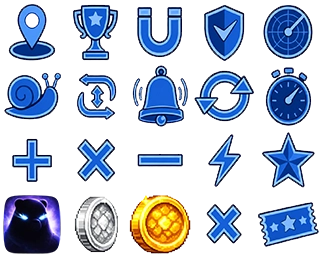
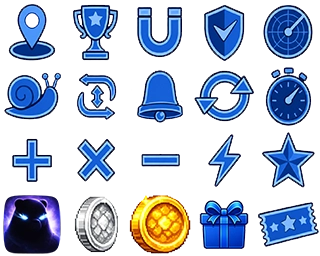
Merge pull request #1539 from bageus/prod
Prod

Pull request: Prod

diff --git a/js/features/onboarding/spotlight.js b/js/features/onboarding/spotlight.js
@@ -17,7 +17,11 @@ function ensureSpotlightRoot() {
   spotlightRoot.setAttribute('aria-hidden', 'true');
   spotlightRoot.style.cssText = [
     'position:fixed',
-    'inset:0',
+    'left:0',
+    'top:0',
+    'width:100vw',
+    'height:var(--tg-viewport-height, 100dvh)',
+    'min-height:-webkit-fill-available',
     'z-index:2147483647',
     'pointer-events:none',
     'font-family:inherit',
@@ -72,15 +76,11 @@ function ensureSpotlightStyles() {
 
 function getViewportRect() {
   const vv = typeof window !== 'undefined' ? window.visualViewport : null;
-  if (!vv) {
-    return { left: 0, top: 0, width: window.innerWidth, height: window.innerHeight };
-  }
-
   return {
-    left: vv.offsetLeft || 0,
-    top: vv.offsetTop || 0,
-    width: vv.width || window.innerWidth,
-    height: vv.height || window.innerHeight,
+    left: 0,
+    top: 0,
+    width: vv?.width || window.innerWidth,
+    height: vv?.height || window.innerHeight,
   };
 }
 
@@ -179,10 +179,22 @@ export async function showSpotlight({ target, text = '', content = null, showSki
   root.style.pointerEvents = 'auto';
 
   const container = document.createElement('div');
-  container.style.cssText = 'position:fixed;inset:0;pointer-events:none;';
+  container.style.cssText = [
+    'position:fixed',
+    'left:0',
+    'top:0',
+    'width:100vw',
+    'height:var(--tg-viewport-height, 100dvh)',
+    'min-height:-webkit-fill-available',
+    'pointer-events:none',
+  ].join(';');
 
   const dimmer = document.createElement('div');
-  dimmer.style.cssText = 'position:absolute;inset:0;pointer-events:none;';
+  dimmer.style.cssText = 'position:absolute;left:0;top:0;width:100%;height:100%;pointer-events:none;';
+
+  const dimBase = document.createElement('div');
+  dimBase.style.cssText = 'position:absolute;left:0;top:0;width:100%;height:100%;background:rgba(5,8,15,0.68);pointer-events:auto;';
+  dimmer.appendChild(dimBase);
 
   const dimTop = document.createElement('div');
   const dimRight = document.createElement('div');
@@ -272,16 +284,35 @@ export async function showSpotlight({ target, text = '', content = null, showSki
 
   const viewportPadding = 12;
   const highlightPadding = 8;
+  const clamp = (value, min, max) => Math.min(Math.max(value, min), max);
 
 
   const place = () => {
     const targetRect = targetElement.getBoundingClientRect();
     const viewport = getViewportRect();
 
-    const left = Math.max(viewport.left + viewportPadding, targetRect.left - highlightPadding);
-    const top = Math.max(viewport.top + viewportPadding, targetRect.top - highlightPadding);
-    const width = Math.max(24, targetRect.width + highlightPadding * 2);
-    const height = Math.max(24, targetRect.height + highlightPadding * 2);
+    if (window?.Telegram?.WebApp) {
+      console.info('[spotlight-debug]', {
+        rect: targetElement.getBoundingClientRect(),
+        innerWidth: window.innerWidth,
+        innerHeight: window.innerHeight,
+        visualViewport: window.visualViewport ? {
+          width: window.visualViewport.width,
+          height: window.visualViewport.height,
+          offsetTop: window.visualViewport.offsetTop,
+          offsetLeft: window.visualViewport.offsetLeft,
+          pageTop: window.visualViewport.pageTop,
+          pageLeft: window.visualViewport.pageLeft,
+        } : null,
+      });
+    }
+
+    const left = clamp(targetRect.left - highlightPadding, 8, viewport.width - 24);
+    const top = clamp(targetRect.top - highlightPadding, 8, viewport.height - 24);
+    const width = Math.max(24, Math.min(targetRect.width + highlightPadding * 2, viewport.width - left - 8));
+    const height = Math.max(24, Math.min(targetRect.height + highlightPadding * 2, viewport.height - top - 8));
+    const holeRight = left + width;
+    const holeBottom = top + height;
 
     hole.style.left = `${left}px`;
     hole.style.top = `${top}px`;
@@ -292,24 +323,24 @@ export async function showSpotlight({ target, text = '', content = null, showSki
     targetProxy.style.top = `${top}px`;
     targetProxy.style.width = `${width}px`;
     targetProxy.style.height = `${height}px`;
-    dimTop.style.left = `${viewport.left}px`;
-    dimTop.style.top = `${viewport.top}px`;
+    dimTop.style.left = '0px';
+    dimTop.style.top = '0px';
     dimTop.style.width = `${viewport.width}px`;
-    dimTop.style.height = `${Math.max(0, top - viewport.top)}px`;
+    dimTop.style.height = `${Math.max(0, top)}px`;
 
-    dimBottom.style.left = `${viewport.left}px`;
-    dimBottom.style.top = `${Math.min(viewport.top + viewport.height, top + height)}px`;
+    dimBottom.style.left = '0px';
+    dimBottom.style.top = `${Math.min(viewport.height, holeBottom)}px`;
     dimBottom.style.width = `${viewport.width}px`;
-    dimBottom.style.height = `${Math.max(0, viewport.top + viewport.height - (top + height))}px`;
+    dimBottom.style.height = `${Math.max(0, viewport.height - holeBottom)}px`;
 
-    dimLeft.style.left = `${viewport.left}px`;
+    dimLeft.style.left = '0px';
     dimLeft.style.top = `${top}px`;
-    dimLeft.style.width = `${Math.max(0, left - viewport.left)}px`;
+    dimLeft.style.width = `${Math.max(0, left)}px`;
     dimLeft.style.height = `${height}px`;
 
-    dimRight.style.left = `${Math.min(viewport.left + viewport.width, left + width)}px`;
+    dimRight.style.left = `${Math.min(viewport.width, holeRight)}px`;
     dimRight.style.top = `${top}px`;
-    dimRight.style.width = `${Math.max(0, viewport.left + viewport.width - (left + width))}px`;
+    dimRight.style.width = `${Math.max(0, viewport.width - holeRight)}px`;
     dimRight.style.height = `${height}px`;
 
     if (!hasText && !hasContent) return;
@@ -317,8 +348,8 @@ export async function showSpotlight({ target, text = '', content = null, showSki
     const bubbleRect = bubble.getBoundingClientRect();
     const belowTop = top + height + 10;
     const aboveTop = top - bubbleRect.height - 10;
-    const minBubbleLeft = viewport.left + viewportPadding;
-    const maxBubbleLeft = viewport.left + viewport.width - bubbleRect.width - viewportPadding;
+    const minBubbleLeft = viewportPadding;
+    const maxBubbleLeft = viewport.width - bubbleRect.width - viewportPadding;
     const centeredBubbleLeft = left + (width - bubbleRect.width) / 2;
 
     let bubbleLeft = centeredBubbleLeft;
@@ -327,8 +358,8 @@ export async function showSpotlight({ target, text = '', content = null, showSki
 
     let bubbleTop = belowTop;
 
-    if (belowTop + bubbleRect.height > viewport.top + viewport.height - viewportPadding) {
-      bubbleTop = Math.max(viewport.top + viewportPadding, aboveTop);
+    if (belowTop + bubbleRect.height > viewport.height - viewportPadding) {
+      bubbleTop = Math.max(viewportPadding, aboveTop);
     }
 
     bubble.style.left = `${bubbleLeft}px`;
@@ -405,6 +436,8 @@ export async function showSpotlight({ target, text = '', content = null, showSki
   cleanupFns.push(() => setTargetHoverState(false));
 
   await centerTargetInScrollableArea(targetElement);
+  await new Promise((resolve) => setTimeout(resolve, 60));
+  await new Promise((resolve) => requestAnimationFrame(() => resolve()));
   schedulePlace();
   const targetRect = targetElement.getBoundingClientRect();
   if (targetRect.width <= 0 || targetRect.height <= 0) {

diff --git a/js/store/store-buy-diagnostics.js b/js/store/store-buy-diagnostics.js
@@ -1,0 +1,26 @@
+export function buildStoreBuyFailureDiagnostic({
+  status,
+  data,
+  authMode,
+  primaryId,
+  telegramId,
+  hasTelegramInitData,
+  hasWallet
+}) {
+  return {
+    status,
+    data,
+    requestData: {
+      authMode,
+      primaryId,
+      telegramId,
+      hasTelegramInitData,
+      hasWallet
+    }
+  };
+}
+
+export function isTelegramSessionExpiredError(message = '') {
+  const normalized = String(message || '').toLowerCase();
+  return normalized.includes('missing telegram identity') || normalized.includes('verification failed');
+}

diff --git a/js/store/upgrades-service.js b/js/store/upgrades-service.js
@@ -6,6 +6,7 @@ import { renderStoreCurrencyButton } from './rides-service.js';
 import { notifyError, notifySuccess, notifyWarn } from '../notifier.js';
 import { updateAiAccessFromBackendPayload } from '../ai-mode.js';
 import { trackUpgradePurchaseAnalytics } from './store-analytics.js';
+import { buildStoreBuyFailureDiagnostic, isTelegramSessionExpiredError } from './store-buy-diagnostics.js';
 import { postOnboardingEvent } from '../features/onboarding/onboarding-service.js';
 import { refreshOnboardingState, getOnboardingStateSnapshot, completeStoreInOnboardingFromPurchase } from '../features/onboarding/index.js';
 import { applyRadarGiftStoreUi } from './radar-gift-ui.js';
@@ -175,7 +176,6 @@ export function getShieldUpgradeSnapshot(effects = playerEffects, upgrades = pla
     startShieldCount: hasStartShield ? Math.max(1, Math.min(startShieldCount || 1, resolvedMaxShieldCount)) : 0
   };
 }
-
 function getLevelFromEffects(upgradeKey) {
   if (!playerEffects) return 0;
   if (upgradeKey === 'shield') {
@@ -187,7 +187,6 @@ function getLevelFromEffects(upgradeKey) {
   if (upgradeKey === 'spin_alert') {
     const directLevel = parseSpinAlertLevel(playerEffects.spin_alert_level);
     if (directLevel > 0) return directLevel;
-
     const modeLevel = parseSpinAlertLevel(playerEffects.spin_alert_mode);
     if (modeLevel > 0) return modeLevel;
 
@@ -250,6 +249,7 @@ export function createUpgradesService({
   updateRidesDisplay,
   getPrimaryAuthIdentifier,
   getTelegramAuthIdentifier,
+  getAuthStateSnapshot,
   isTelegramAuthMode,
   isStoreAvailable,
   getRuntimeGameConfig,
@@ -446,20 +446,14 @@ export function createUpgradesService({
       if (isTelegramAuthMode()) {
         const telegramId = getTelegramAuthIdentifier();
         const telegramInitData = String(window.Telegram?.WebApp?.initData || '').trim();
+        const authState = getAuthStateSnapshot();
+        const linkedWallet = String(authState?.linkedWallet || '').trim().toLowerCase();
         if (!telegramId || !telegramInitData) {
           notifyError('❌ Telegram session is missing, reopen the app and try again');
           return;
         }
 
-        requestData = {
-          primaryId: String(primaryId || identifier || '').trim(),
-          upgradeKey: key === 'shield_capacity' ? 'shield_capacity' : key,
-          tier,
-          timestamp,
-          authMode: 'telegram',
-          telegramId,
-          telegramInitData
-        };
+        requestData = { primaryId: String(primaryId || identifier || '').trim(), upgradeKey: key === 'shield_capacity' ? 'shield_capacity' : key, tier, timestamp, authMode: 'telegram', telegramId, telegramInitData, ...(linkedWallet ? { wallet: linkedWallet } : {}) };
       } else {
         walletForSignature = String(identifier || '').toLowerCase();
         const message = `Buy upgrade\nWallet: ${walletForSignature}\nUpgrade: ${key === 'shield_capacity' ? 'shield_capacity' : key}\nTier: ${tier}\nTimestamp: ${timestamp}`;
@@ -540,6 +534,7 @@ export function createUpgradesService({
         }
         if (key === 'rides_pack') await completeStoreInOnboardingAfterRidesPackPurchase();
       } else {
+        console.warn('[store-buy-failed]', buildStoreBuyFailureDiagnostic({ status, data, authMode: isTelegramAuthMode() ? 'telegram' : 'wallet', primaryId: String(primaryId || identifier || '').trim(), telegramId: getTelegramAuthIdentifier(), hasTelegramInitData: Boolean(String(window.Telegram?.WebApp?.initData || '').trim()), hasWallet: Boolean(String(getAuthStateSnapshot()?.linkedWallet || '').trim()) }));
         const serverError = data && data.error ? data.error : 'Purchase failed';
         const isConflict = isAlreadyPurchasedError(serverError);
         const isAmbiguousServerFailure = status === 500;
@@ -570,6 +565,11 @@ export function createUpgradesService({
             notifySuccess('✅ Purchase confirmed after sync');
             return;
           }
+        }
+
+        if (isTelegramSessionExpiredError(serverError)) {
+          notifyError('Telegram session expired. Reopen the app and try again.');
+          return;
         }
 
         notifyError(`❌ ${serverError}`);

diff --git a/js/store.js b/js/store.js
@@ -1,5 +1,5 @@
 import { isAuthenticated } from './api.js';
-import { isTelegramAuthMode, getPrimaryAuthIdentifier, getTelegramAuthIdentifier } from './auth.js';
+import { isTelegramAuthMode, getPrimaryAuthIdentifier, getTelegramAuthIdentifier, getAuthStateSnapshot } from './auth.js';
 import { createRuntimeConfigController } from './store/runtime-config.js';
 import { createRidesService, resetPlayerRides, setPlayerRides } from './store/rides-service.js';
 import { createUpgradesService, resetUpgradeState, setPlayerStoreState } from './store/upgrades-service.js';
@@ -99,6 +99,7 @@ const upgradesService = createUpgradesService({
   updateRidesDisplay,
   getPrimaryAuthIdentifier,
   getTelegramAuthIdentifier,
+  getAuthStateSnapshot,
   isTelegramAuthMode,
   isStoreAvailable,
   getRuntimeGameConfig,